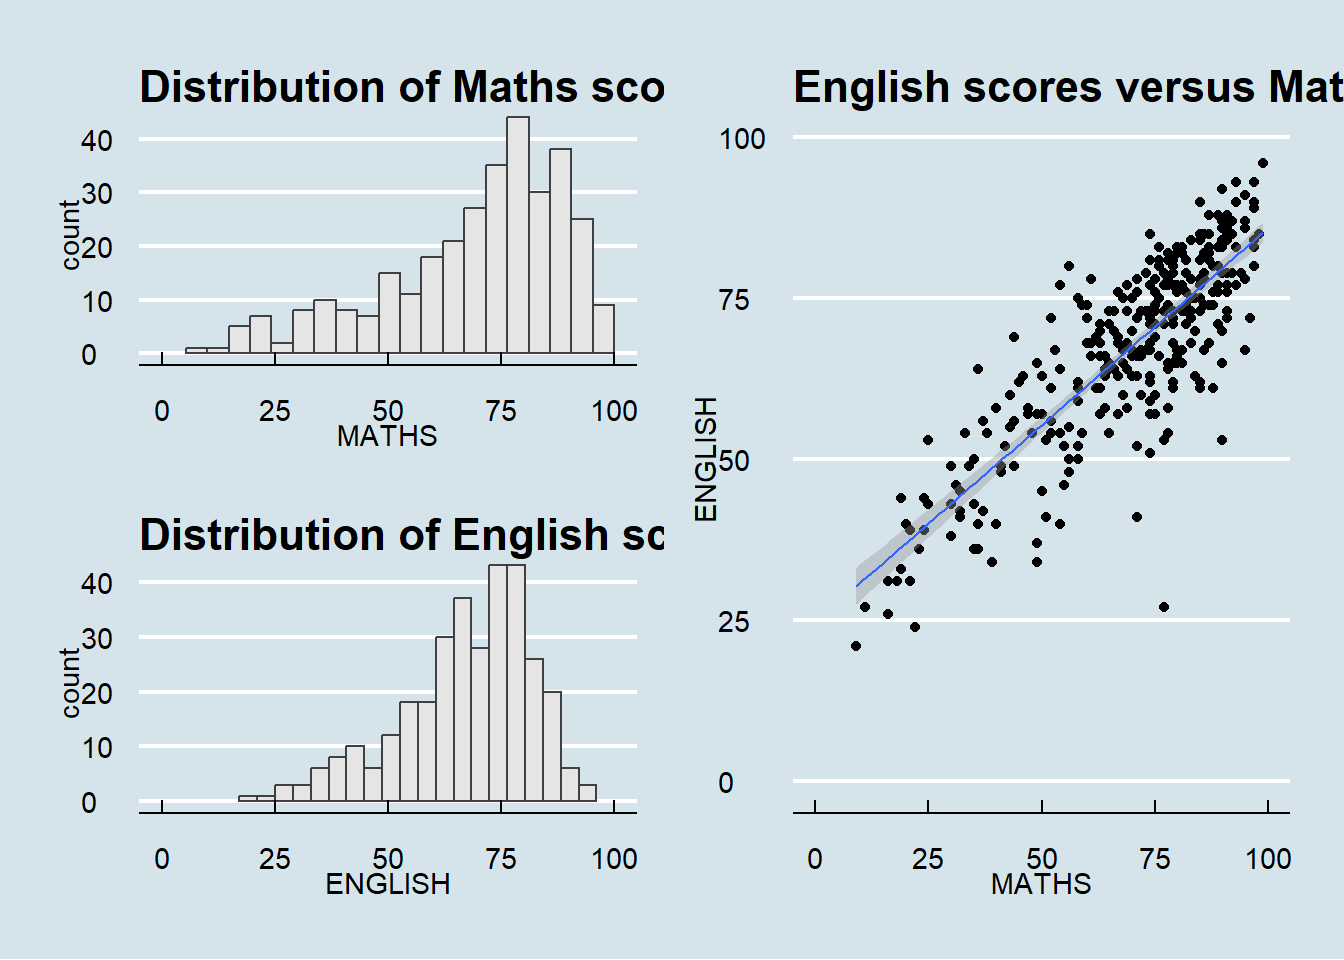
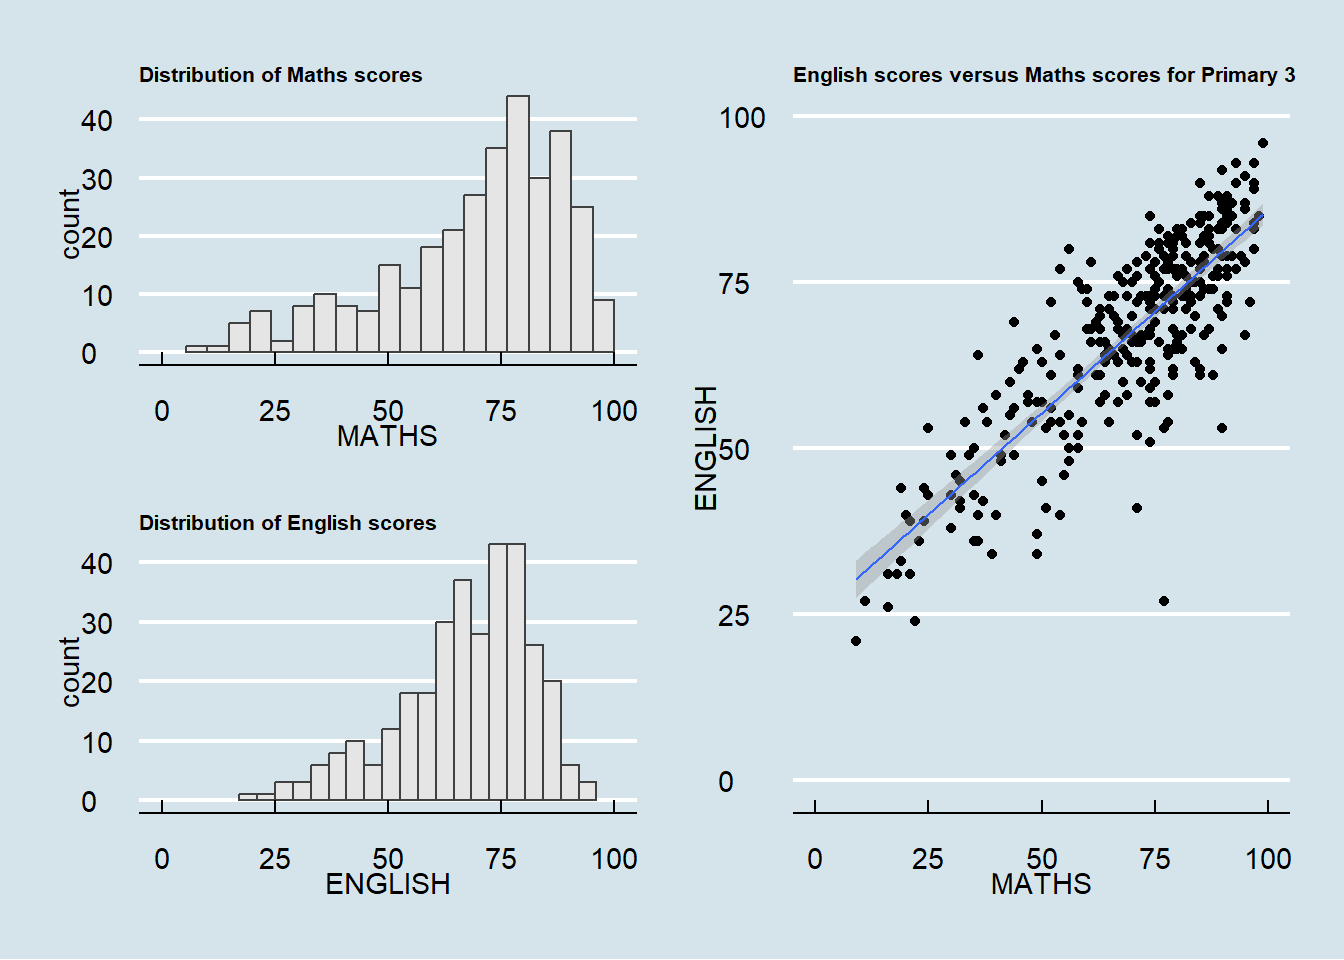
Commit after editing hands on exercise 2 and take home exercise 1

diff --git a/_site/Take-home_Ex/Take-home_Ex01/Take-home_Ex01.html b/_site/Take-home_Ex/Take-home_Ex01/Take-home_Ex01.html
@@ -204,7 +204,9 @@ pre > code.sourceCode > span > a:first-child::before { text-decoration: underlin
   <li><a href="#create-quarter-column" id="toc-create-quarter-column" class="nav-link" data-scroll-target="#create-quarter-column">Create Quarter Column</a></li>
   </ul></li>
   </ul></li>
-  <li><a href="#data-visualization-1" id="toc-data-visualization-1" class="nav-link" data-scroll-target="#data-visualization-1">Data Visualization 1</a></li>
+  <li><a href="#data-visualization-1" id="toc-data-visualization-1" class="nav-link" data-scroll-target="#data-visualization-1">Data Visualization [1]</a></li>
+  <li><a href="#data-visualization-2" id="toc-data-visualization-2" class="nav-link" data-scroll-target="#data-visualization-2">Data Visualization [2]</a></li>
+  <li><a href="#data-visualization-3" id="toc-data-visualization-3" class="nav-link" data-scroll-target="#data-visualization-3">Data Visualization [3]</a></li>
   </ul>
 </nav>
     </div>
@@ -238,7 +240,7 @@ pre > code.sourceCode > span > a:first-child::before { text-decoration: underlin
     <div>
     <div class="quarto-title-meta-heading">Modified</div>
     <div class="quarto-title-meta-contents">
-      <p class="date-modified">April 18, 2024</p>
+      <p class="date-modified">April 19, 2024</p>
     </div>
   </div>
     
@@ -265,7 +267,7 @@ pre > code.sourceCode > span > a:first-child::before { text-decoration: underlin
 <section id="installing-and-loading-the-required-libraries" class="level2">
 <h2 class="anchored" data-anchor-id="installing-and-loading-the-required-libraries">Installing and loading the required libraries</h2>
 <div class="cell">
-<div class="sourceCode cell-code" id="cb1"><pre class="sourceCode r code-with-copy"><code class="sourceCode r"><span id="cb1-1"><a href="#cb1-1" aria-hidden="true" tabindex="-1"></a>pacman<span class="sc">::</span><span class="fu">p_load</span>(tidyverse,dplyr,lubridate,patchwork)</span></code><button title="Copy to Clipboard" class="code-copy-button"><i class="bi"></i></button></pre></div>
+<div class="sourceCode cell-code" id="cb1"><pre class="sourceCode r code-with-copy"><code class="sourceCode r"><span id="cb1-1"><a href="#cb1-1" aria-hidden="true" tabindex="-1"></a>pacman<span class="sc">::</span><span class="fu">p_load</span>(tidyverse,dplyr,lubridate,patchwork,ggthemes,hrbrthemes)</span></code><button title="Copy to Clipboard" class="code-copy-button"><i class="bi"></i></button></pre></div>
 </div>
 </section>
 <section id="importing-data" class="level2">
@@ -420,7 +422,7 @@ $ Quarter                     &lt;chr&gt; "2023Q1", "2023Q1", "2023Q1", "2023Q1"
 </section>
 </section>
 <section id="data-visualization-1" class="level1">
-<h1>Data Visualization 1</h1>
+<h1>Data Visualization [1]</h1>
 <p>Use ggplot2 to chart transaction count by Planning Region and Property Type breakdown by quarter. Use ggplot2 extension called <a href="https://patchwork.data-imaginist.com/"><strong>patchwork</strong></a> to combine separate ggplot2 graphs into a single figure.</p>
 <div class="tabset-margin-container"></div><div class="panel-tabset">
 <ul class="nav nav-tabs" role="tablist"><li class="nav-item" role="presentation"><a class="nav-link active" id="tabset-2-1-tab" data-bs-toggle="tab" data-bs-target="#tabset-2-1" role="tab" aria-controls="tabset-2-1" aria-selected="true">Plot</a></li><li class="nav-item" role="presentation"><a class="nav-link" id="tabset-2-2-tab" data-bs-toggle="tab" data-bs-target="#tabset-2-2" role="tab" aria-controls="tabset-2-2" aria-selected="false">Code</a></li></ul>
@@ -446,36 +448,67 @@ $ Quarter                     &lt;chr&gt; "2023Q1", "2023Q1", "2023Q1", "2023Q1"
 <span id="cb14-6"><a href="#cb14-6" aria-hidden="true" tabindex="-1"></a><span class="co"># Plot the bar chart with a breakdown by quarter</span></span>
 <span id="cb14-7"><a href="#cb14-7" aria-hidden="true" tabindex="-1"></a>p1 <span class="ot">&lt;-</span> <span class="fu">ggplot</span>(trans_per_prop_quarter, <span class="fu">aes</span>(<span class="at">x =</span> Property_Type, <span class="at">y =</span> Number_of_Transactions, <span class="at">fill =</span> Quarter)) <span class="sc">+</span></span>
 <span id="cb14-8"><a href="#cb14-8" aria-hidden="true" tabindex="-1"></a>  <span class="fu">geom_bar</span>(<span class="at">stat =</span> <span class="st">"identity"</span>, <span class="at">position =</span> <span class="st">"dodge"</span>) <span class="sc">+</span></span>
-<span id="cb14-9"><a href="#cb14-9" aria-hidden="true" tabindex="-1"></a>  <span class="fu">theme_minimal</span>() <span class="sc">+</span></span>
-<span id="cb14-10"><a href="#cb14-10" aria-hidden="true" tabindex="-1"></a>  <span class="fu">labs</span>(<span class="at">x =</span> <span class="st">"Property Type"</span>, <span class="at">y =</span> <span class="st">"No. of Transactions"</span>, <span class="at">title =</span> <span class="st">"No. of Transactions by Property Type and Quarter"</span>)<span class="sc">+</span></span>
-<span id="cb14-11"><a href="#cb14-11" aria-hidden="true" tabindex="-1"></a>  <span class="fu">theme</span>(<span class="at">axis.text.x =</span> <span class="fu">element_text</span>(<span class="at">angle =</span> <span class="dv">45</span>, <span class="at">vjust =</span> <span class="dv">1</span>, <span class="at">hjust=</span><span class="dv">1</span>), <span class="at">plot.title =</span> <span class="fu">element_text</span>(<span class="at">hjust =</span> <span class="fl">0.5</span>, <span class="at">size =</span> <span class="dv">10</span>), <span class="at">axis.title.y =</span> <span class="fu">element_text</span>(<span class="at">size =</span> <span class="fu">rel</span>(<span class="fl">0.8</span>)))</span>
-<span id="cb14-12"><a href="#cb14-12" aria-hidden="true" tabindex="-1"></a></span>
-<span id="cb14-13"><a href="#cb14-13" aria-hidden="true" tabindex="-1"></a><span class="co"># Get overall transaction count per quarter</span></span>
-<span id="cb14-14"><a href="#cb14-14" aria-hidden="true" tabindex="-1"></a>transactions_by_quarter <span class="ot">&lt;-</span> realis_merge <span class="sc">%&gt;%</span></span>
-<span id="cb14-15"><a href="#cb14-15" aria-hidden="true" tabindex="-1"></a>  <span class="fu">count</span>(Quarter) </span>
-<span id="cb14-16"><a href="#cb14-16" aria-hidden="true" tabindex="-1"></a></span>
-<span id="cb14-17"><a href="#cb14-17" aria-hidden="true" tabindex="-1"></a><span class="co"># Plot overall transaction trend</span></span>
-<span id="cb14-18"><a href="#cb14-18" aria-hidden="true" tabindex="-1"></a>p2 <span class="ot">&lt;-</span> <span class="fu">ggplot</span>(transactions_by_quarter, <span class="fu">aes</span>(<span class="at">x =</span> Quarter, <span class="at">y =</span> n)) <span class="sc">+</span></span>
-<span id="cb14-19"><a href="#cb14-19" aria-hidden="true" tabindex="-1"></a>  <span class="fu">geom_bar</span>(<span class="at">stat =</span> <span class="st">"identity"</span>, <span class="at">fill =</span> <span class="st">"skyblue"</span>) <span class="sc">+</span>  </span>
-<span id="cb14-20"><a href="#cb14-20" aria-hidden="true" tabindex="-1"></a>  <span class="fu">labs</span>(</span>
-<span id="cb14-21"><a href="#cb14-21" aria-hidden="true" tabindex="-1"></a>    <span class="at">title =</span> <span class="st">"Overall Transactions by Quarter"</span>,</span>
-<span id="cb14-22"><a href="#cb14-22" aria-hidden="true" tabindex="-1"></a>    <span class="at">x =</span> <span class="st">"Quarter"</span>,</span>
-<span id="cb14-23"><a href="#cb14-23" aria-hidden="true" tabindex="-1"></a>    <span class="at">y =</span> <span class="st">"No. of Transactions"</span></span>
-<span id="cb14-24"><a href="#cb14-24" aria-hidden="true" tabindex="-1"></a>  ) <span class="sc">+</span></span>
-<span id="cb14-25"><a href="#cb14-25" aria-hidden="true" tabindex="-1"></a>  <span class="fu">ylim</span>(<span class="dv">0</span>,<span class="dv">8000</span>) <span class="sc">+</span></span>
-<span id="cb14-26"><a href="#cb14-26" aria-hidden="true" tabindex="-1"></a>  <span class="fu">geom_text</span>(<span class="fu">aes</span>(<span class="at">label =</span> n),  </span>
-<span id="cb14-27"><a href="#cb14-27" aria-hidden="true" tabindex="-1"></a>            <span class="at">vjust =</span> <span class="sc">-</span><span class="fl">0.3</span>,</span>
-<span id="cb14-28"><a href="#cb14-28" aria-hidden="true" tabindex="-1"></a>            <span class="at">size =</span> <span class="fu">rel</span>(<span class="dv">3</span>),</span>
-<span id="cb14-29"><a href="#cb14-29" aria-hidden="true" tabindex="-1"></a>            <span class="at">color =</span> <span class="st">"black"</span>) <span class="sc">+</span></span>
-<span id="cb14-30"><a href="#cb14-30" aria-hidden="true" tabindex="-1"></a>  <span class="fu">theme_minimal</span>() <span class="sc">+</span></span>
-<span id="cb14-31"><a href="#cb14-31" aria-hidden="true" tabindex="-1"></a>  <span class="fu">theme</span>(<span class="at">axis.text.x =</span> <span class="fu">element_text</span>(<span class="at">angle =</span> <span class="dv">45</span>, <span class="at">hjust =</span> <span class="dv">1</span>), <span class="at">plot.title =</span> <span class="fu">element_text</span>(<span class="at">hjust =</span> <span class="fl">0.5</span>, <span class="at">size =</span> <span class="dv">10</span>), <span class="at">axis.title.y =</span> <span class="fu">element_text</span>(<span class="at">size =</span> <span class="fu">rel</span>(<span class="fl">0.8</span>)))</span>
-<span id="cb14-32"><a href="#cb14-32" aria-hidden="true" tabindex="-1"></a></span>
-<span id="cb14-33"><a href="#cb14-33" aria-hidden="true" tabindex="-1"></a>p <span class="ot">&lt;-</span> (p2<span class="sc">/</span>p1) </span>
-<span id="cb14-34"><a href="#cb14-34" aria-hidden="true" tabindex="-1"></a>p</span></code><button title="Copy to Clipboard" class="code-copy-button"><i class="bi"></i></button></pre></div>
+<span id="cb14-9"><a href="#cb14-9" aria-hidden="true" tabindex="-1"></a>  <span class="fu">labs</span>(<span class="at">x =</span> <span class="st">"Property Type"</span>, <span class="at">y =</span> <span class="st">"No. of Transactions"</span>, <span class="at">title =</span> <span class="st">"No. of Transactions by Property Type and Quarter"</span>)<span class="sc">+</span></span>
+<span id="cb14-10"><a href="#cb14-10" aria-hidden="true" tabindex="-1"></a>  <span class="fu">ylim</span>(<span class="dv">0</span>,<span class="dv">3200</span>) <span class="sc">+</span></span>
+<span id="cb14-11"><a href="#cb14-11" aria-hidden="true" tabindex="-1"></a>  <span class="fu">theme_wsj</span>()<span class="sc">+</span></span>
+<span id="cb14-12"><a href="#cb14-12" aria-hidden="true" tabindex="-1"></a>  <span class="fu">theme</span>(<span class="at">plot.title =</span> <span class="fu">element_text</span>(<span class="at">size =</span> <span class="fu">rel</span>(<span class="fl">0.4</span>)),  </span>
+<span id="cb14-13"><a href="#cb14-13" aria-hidden="true" tabindex="-1"></a>        <span class="at">axis.text.x =</span> <span class="fu">element_text</span>(<span class="at">size =</span> <span class="fu">rel</span>(<span class="fl">0.7</span>)),  </span>
+<span id="cb14-14"><a href="#cb14-14" aria-hidden="true" tabindex="-1"></a>        <span class="at">axis.text.y =</span> <span class="fu">element_text</span>(<span class="at">size =</span> <span class="fu">rel</span>(<span class="fl">0.7</span>)),</span>
+<span id="cb14-15"><a href="#cb14-15" aria-hidden="true" tabindex="-1"></a>        <span class="at">legend.text =</span> <span class="fu">element_text</span>(<span class="at">size =</span> <span class="fu">rel</span>(<span class="fl">0.7</span>)),</span>
+<span id="cb14-16"><a href="#cb14-16" aria-hidden="true" tabindex="-1"></a>        <span class="at">legend.title =</span> <span class="fu">element_text</span>(<span class="at">size =</span> <span class="fu">rel</span>(<span class="fl">0.4</span>)))  <span class="sc">+</span></span>
+<span id="cb14-17"><a href="#cb14-17" aria-hidden="true" tabindex="-1"></a>  <span class="fu">scale_x_discrete</span>(<span class="at">guide =</span> <span class="fu">guide_axis</span>(<span class="at">n.dodge =</span> <span class="dv">2</span>)) </span>
+<span id="cb14-18"><a href="#cb14-18" aria-hidden="true" tabindex="-1"></a></span>
+<span id="cb14-19"><a href="#cb14-19" aria-hidden="true" tabindex="-1"></a><span class="co"># Get overall transaction count per quarter</span></span>
+<span id="cb14-20"><a href="#cb14-20" aria-hidden="true" tabindex="-1"></a>transactions_by_quarter <span class="ot">&lt;-</span> realis_merge <span class="sc">%&gt;%</span></span>
+<span id="cb14-21"><a href="#cb14-21" aria-hidden="true" tabindex="-1"></a>  <span class="fu">count</span>(Quarter) </span>
+<span id="cb14-22"><a href="#cb14-22" aria-hidden="true" tabindex="-1"></a></span>
+<span id="cb14-23"><a href="#cb14-23" aria-hidden="true" tabindex="-1"></a><span class="co"># Plot overall transaction trend</span></span>
+<span id="cb14-24"><a href="#cb14-24" aria-hidden="true" tabindex="-1"></a>p2 <span class="ot">&lt;-</span> <span class="fu">ggplot</span>(transactions_by_quarter, <span class="fu">aes</span>(<span class="at">x =</span> Quarter, <span class="at">y =</span> n)) <span class="sc">+</span></span>
+<span id="cb14-25"><a href="#cb14-25" aria-hidden="true" tabindex="-1"></a>  <span class="fu">geom_bar</span>(<span class="at">stat =</span> <span class="st">"identity"</span>, <span class="at">fill =</span> <span class="st">"burlywood"</span>) <span class="sc">+</span>  </span>
+<span id="cb14-26"><a href="#cb14-26" aria-hidden="true" tabindex="-1"></a>  <span class="fu">labs</span>(</span>
+<span id="cb14-27"><a href="#cb14-27" aria-hidden="true" tabindex="-1"></a>    <span class="at">title =</span> <span class="st">"Overall Transactions by Quarter"</span>,</span>
+<span id="cb14-28"><a href="#cb14-28" aria-hidden="true" tabindex="-1"></a>    <span class="at">x =</span> <span class="st">"Quarter"</span>,</span>
+<span id="cb14-29"><a href="#cb14-29" aria-hidden="true" tabindex="-1"></a>    <span class="at">y =</span> <span class="st">"No. of Transactions"</span></span>
+<span id="cb14-30"><a href="#cb14-30" aria-hidden="true" tabindex="-1"></a>  ) <span class="sc">+</span></span>
+<span id="cb14-31"><a href="#cb14-31" aria-hidden="true" tabindex="-1"></a>  <span class="fu">ylim</span>(<span class="dv">0</span>,<span class="dv">8000</span>) <span class="sc">+</span></span>
+<span id="cb14-32"><a href="#cb14-32" aria-hidden="true" tabindex="-1"></a>  <span class="fu">geom_text</span>(<span class="fu">aes</span>(<span class="at">label =</span> n),  </span>
+<span id="cb14-33"><a href="#cb14-33" aria-hidden="true" tabindex="-1"></a>            <span class="at">vjust =</span> <span class="sc">-</span><span class="fl">0.3</span>,</span>
+<span id="cb14-34"><a href="#cb14-34" aria-hidden="true" tabindex="-1"></a>            <span class="at">size =</span> <span class="fu">rel</span>(<span class="dv">3</span>),</span>
+<span id="cb14-35"><a href="#cb14-35" aria-hidden="true" tabindex="-1"></a>            <span class="at">color =</span> <span class="st">"black"</span>) <span class="sc">+</span></span>
+<span id="cb14-36"><a href="#cb14-36" aria-hidden="true" tabindex="-1"></a>  <span class="fu">theme_wsj</span>()<span class="sc">+</span></span>
+<span id="cb14-37"><a href="#cb14-37" aria-hidden="true" tabindex="-1"></a>  <span class="fu">theme</span>(<span class="at">plot.title =</span> <span class="fu">element_text</span>(<span class="at">size =</span> <span class="fu">rel</span>(<span class="fl">0.4</span>)),  </span>
+<span id="cb14-38"><a href="#cb14-38" aria-hidden="true" tabindex="-1"></a>        <span class="at">axis.text.x =</span> <span class="fu">element_text</span>(<span class="at">size =</span> <span class="fu">rel</span>(<span class="fl">0.7</span>)), </span>
+<span id="cb14-39"><a href="#cb14-39" aria-hidden="true" tabindex="-1"></a>        <span class="at">axis.text.y =</span> <span class="fu">element_text</span>(<span class="at">size =</span> <span class="fu">rel</span>(<span class="fl">0.7</span>)))  </span>
+<span id="cb14-40"><a href="#cb14-40" aria-hidden="true" tabindex="-1"></a></span>
+<span id="cb14-41"><a href="#cb14-41" aria-hidden="true" tabindex="-1"></a>p <span class="ot">&lt;-</span> (p2<span class="sc">/</span>p1) </span>
+<span id="cb14-42"><a href="#cb14-42" aria-hidden="true" tabindex="-1"></a>p </span></code><button title="Copy to Clipboard" class="code-copy-button"><i class="bi"></i></button></pre></div>
 </div>
 </div>
 </div>
 </div>
+<div class="callout callout-style-default callout-tip callout-titled">
+<div class="callout-header d-flex align-content-center">
+<div class="callout-icon-container">
+<i class="callout-icon"></i>
+</div>
+<div class="callout-title-container flex-fill">
+Insights from data visualization
+</div>
+</div>
+<div class="callout-body-container callout-body">
+<ul>
+<li><p><code>axis_title_size</code> argument is used to increase the font size of the axis title to 18,</p></li>
+<li><p><code>base_size</code> argument is used to increase the default axis label to 15, and</p></li>
+<li><p><code>grid</code> argument is used to remove the x-axis grid lines.</p></li>
+</ul>
+</div>
+</div>
+</section>
+<section id="data-visualization-2" class="level1">
+<h1>Data Visualization [2]</h1>
+</section>
+<section id="data-visualization-3" class="level1">
+<h1>Data Visualization [3]</h1>
 
 
 </section>

diff --git a/_site/Hands-on_Ex/Hands-on_Ex02/Hands-on_Ex02.html b/_site/Hands-on_Ex/Hands-on_Ex02/Hands-on_Ex02.html
@@ -244,7 +244,7 @@ pre > code.sourceCode > span > a:first-child::before { text-decoration: underlin
     <div>
     <div class="quarto-title-meta-heading">Modified</div>
     <div class="quarto-title-meta-contents">
-      <p class="date-modified">April 16, 2024</p>
+      <p class="date-modified">April 19, 2024</p>
     </div>
   </div>
     
@@ -658,7 +658,7 @@ What can we learn from the code chunk above?
 </div>
 <div id="tabset-11-2" class="tab-pane" role="tabpanel" aria-labelledby="tabset-11-2-tab">
 <div class="cell">
-<div class="sourceCode cell-code" id="cb13"><pre class="sourceCode r code-with-copy"><code class="sourceCode r"><span id="cb13-1"><a href="#cb13-1" aria-hidden="true" tabindex="-1"></a>(p1 <span class="sc">/</span> p2) <span class="sc">|</span> p3</span></code><button title="Copy to Clipboard" class="code-copy-button"><i class="bi"></i></button></pre></div>
+<div class="sourceCode cell-code" id="cb13"><pre class="sourceCode r code-with-copy"><code class="sourceCode r"><span id="cb13-1"><a href="#cb13-1" aria-hidden="true" tabindex="-1"></a>((p1 <span class="sc">/</span> p2) <span class="sc">|</span> p3) <span class="sc">&amp;</span> <span class="fu">theme</span>(<span class="at">plot.title =</span> <span class="fu">element_text</span>(<span class="at">size=</span><span class="dv">9</span>))</span></code><button title="Copy to Clipboard" class="code-copy-button"><i class="bi"></i></button></pre></div>
 </div>
 </div>
 </div>
@@ -740,7 +740,7 @@ What can we learn from the code chunk above?
 <div id="tabset-14-2" class="tab-pane" role="tabpanel" aria-labelledby="tabset-14-2-tab">
 <div class="cell">
 <div class="sourceCode cell-code" id="cb16"><pre class="sourceCode r code-with-copy"><code class="sourceCode r"><span id="cb16-1"><a href="#cb16-1" aria-hidden="true" tabindex="-1"></a>patchwork <span class="ot">&lt;-</span> (p1 <span class="sc">/</span> p2) <span class="sc">|</span> p3</span>
-<span id="cb16-2"><a href="#cb16-2" aria-hidden="true" tabindex="-1"></a>patchwork <span class="sc">&amp;</span> <span class="fu">theme_economist</span>()</span></code><button title="Copy to Clipboard" class="code-copy-button"><i class="bi"></i></button></pre></div>
+<span id="cb16-2"><a href="#cb16-2" aria-hidden="true" tabindex="-1"></a>patchwork <span class="sc">&amp;</span> <span class="fu">theme_economist</span>() <span class="sc">&amp;</span> <span class="fu">theme</span>(<span class="at">plot.title =</span> <span class="fu">element_text</span>(<span class="at">size=</span><span class="dv">8</span>))</span></code><button title="Copy to Clipboard" class="code-copy-button"><i class="bi"></i></button></pre></div>
 </div>
 </div>
 </div>
